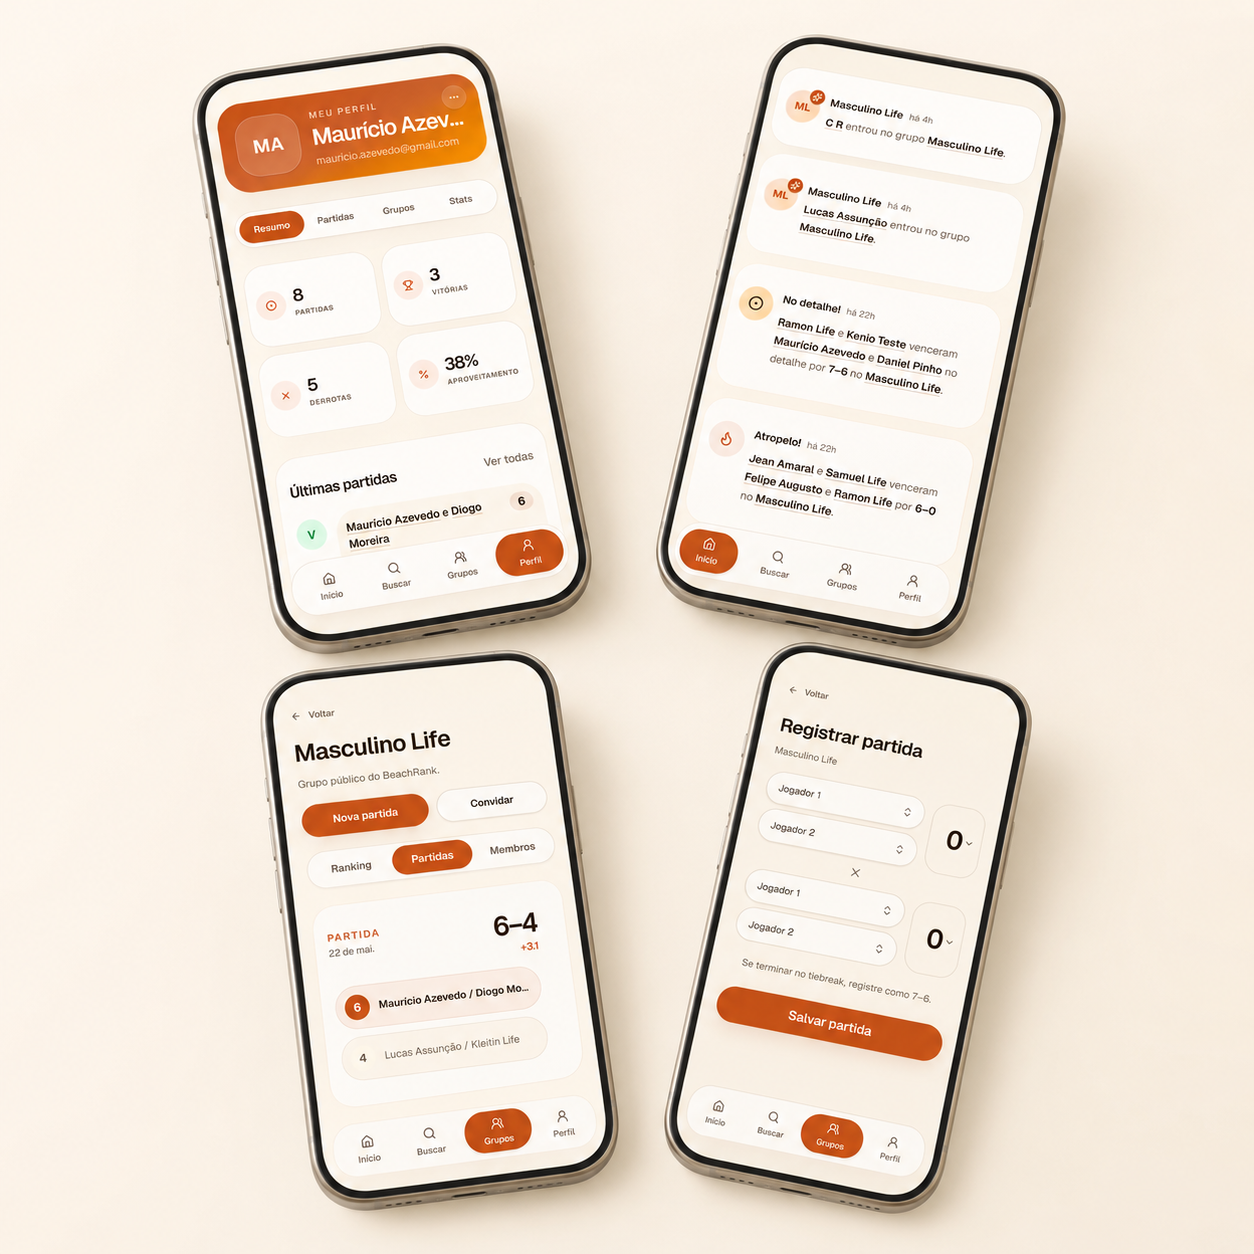
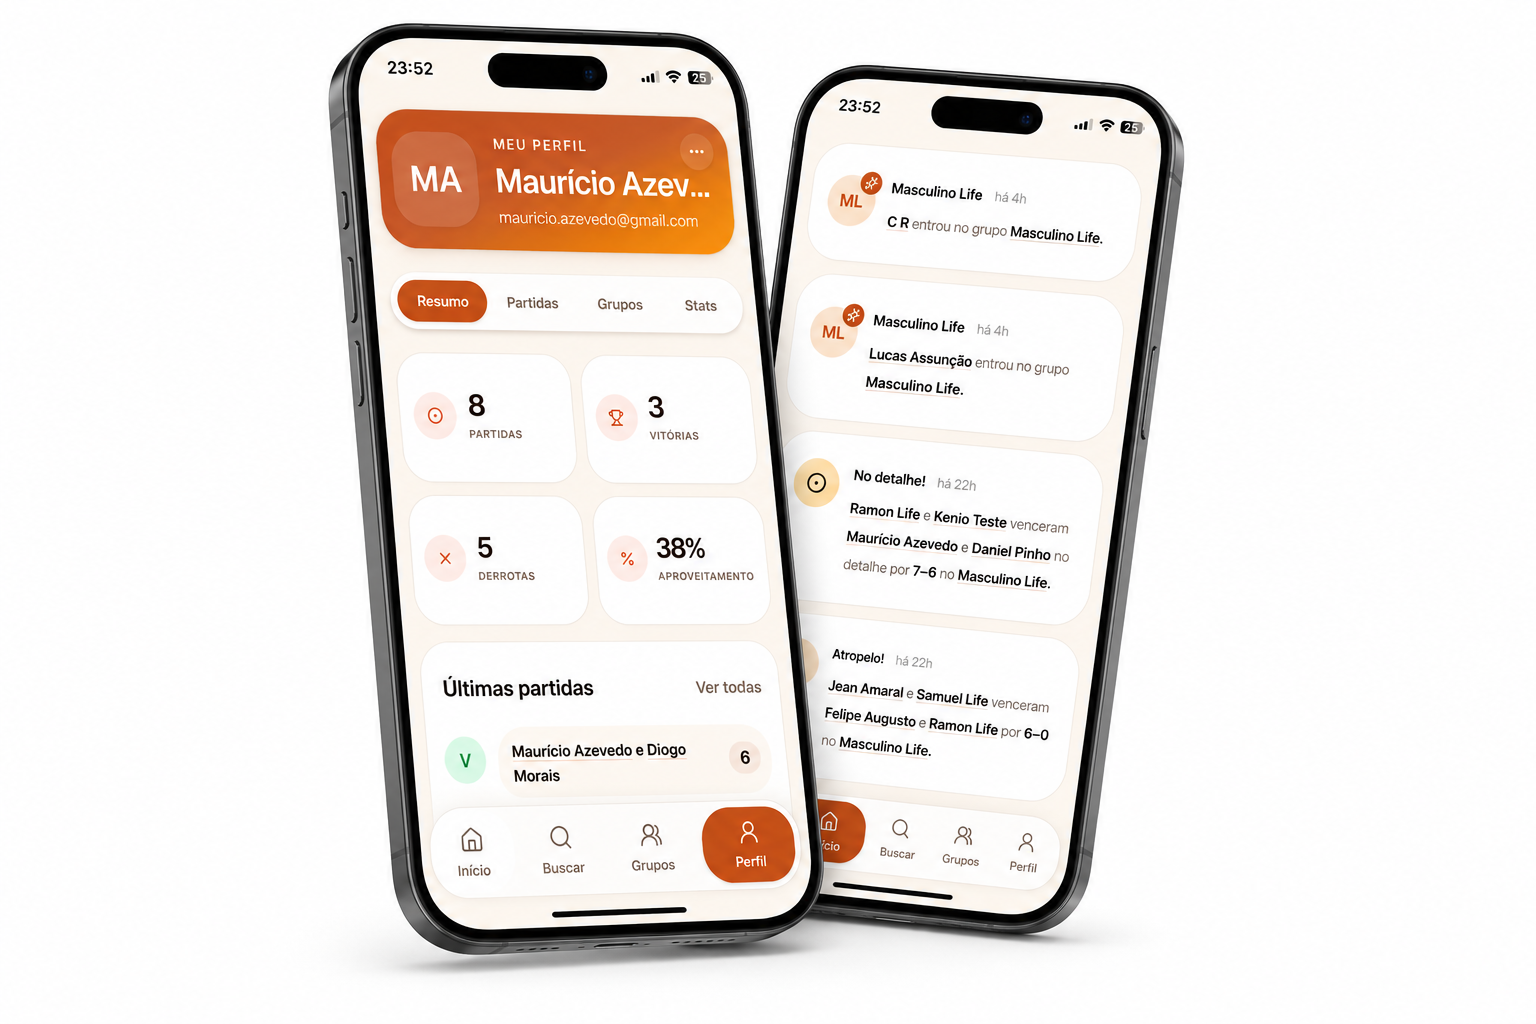
Refined CSS layout for `.project-content` and added styling for `.profile-photo`.

diff --git a/styles.css b/styles.css
@@ -155,6 +155,11 @@ a {
   color: var(--muted);
 }
 
+.profile-photo {
+  width: 250px;
+  height: auto;
+}
+
 .hero-meta {
   display: flex;
   flex-wrap: wrap;
@@ -334,10 +339,9 @@ a {
 }
 
 .project-content {
-  display: grid;
-  grid-template-columns: 1fr 174px;
-  gap: 24px;
-  align-items: center;
+  display: flex;
+  flex-direction: column;
+  gap: 1rem;
   overflow: hidden;
   border: 1px solid var(--line);
   border-radius: 18px;
